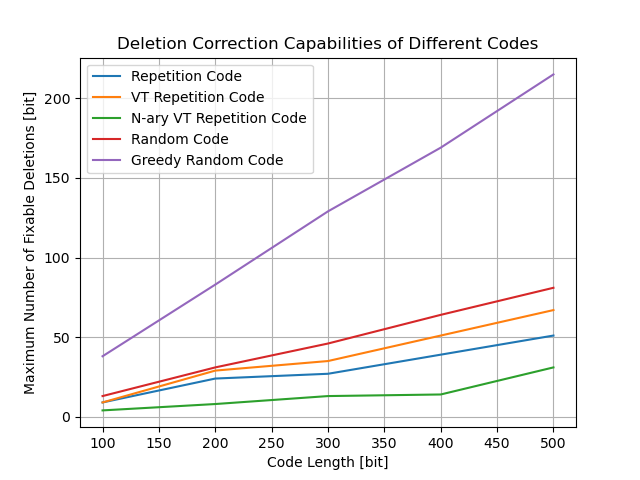
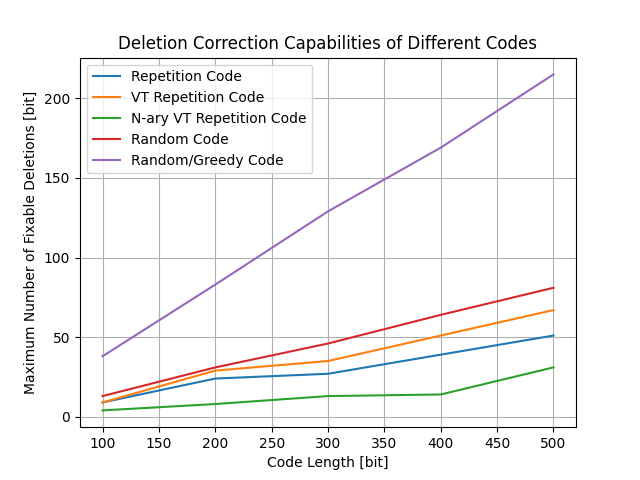
Renaming to RandomGreedyCode

diff --git a/experiments/graphs.py b/experiments/graphs.py
@@ -14,7 +14,7 @@ if __name__ == "__main__":
     plt.plot(x, y2, label='VT Repetition Code')
     plt.plot(x, y3, label='N-ary VT Repetition Code')
     plt.plot(x, y4, label='Random Code')
-    plt.plot(x, y5, label='Greedy Random Code')
+    plt.plot(x, y5, label='Random/Greedy Code')
     plt.title("Deletion Correction Capabilities of Different Codes")
     plt.xlabel("Code Length [bit]")
     plt.ylabel("Maximum Number of Fixable Deletions [bit]")

diff --git a/codes/RandomGreedyCode.py b/codes/RandomGreedyCode.py
@@ -1,5 +1,5 @@
 #
-#   @file : GreedyRandomCode.py
+#   @file : RandomGreedyCode.py
 #   @date : 24 January 2024
 #   @authors : Orel Adivi and Daniel Noor
 #
@@ -29,6 +29,6 @@ class GreedyRandomCode(Code):
 
 
 if __name__ == "__main__":
-    r = GreedyRandomCode(400)
+    r = GreedyRandomCode(400, options=3)
     print(r.codewords)
     print(r.max_deletions())

diff --git a/experiments/exp1.py b/experiments/exp1.py
@@ -6,7 +6,7 @@ import timeit
 import numpy as np
 
 from codes.GreedyCode import GreedyCode
-from codes.GreedyRandomCode import GreedyRandomCode
+from codes.RandomGreedyCode import GreedyRandomCode
 from codes.LinSpaceCode import LinSpaceCode
 from codes.LogSpaceCode import LogSpaceCode
 from codes.RandomCode import RandomCode

diff --git a/experiments/exp2.py b/experiments/exp2.py
@@ -6,7 +6,7 @@ import timeit
 import numpy as np
 
 from codes.GreedyCode import GreedyCode
-from codes.GreedyRandomCode import GreedyRandomCode
+from codes.RandomGreedyCode import GreedyRandomCode
 from codes.LinSpaceCode import LinSpaceCode
 from codes.LogSpaceCode import LogSpaceCode
 from codes.RandomCode import RandomCode
